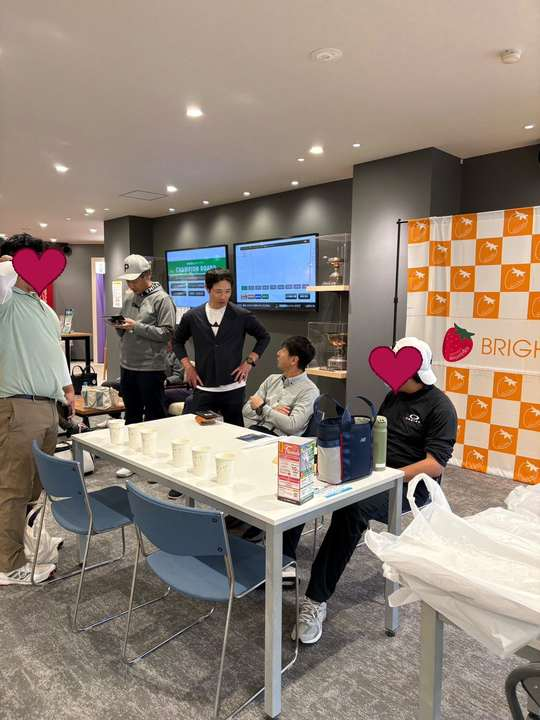
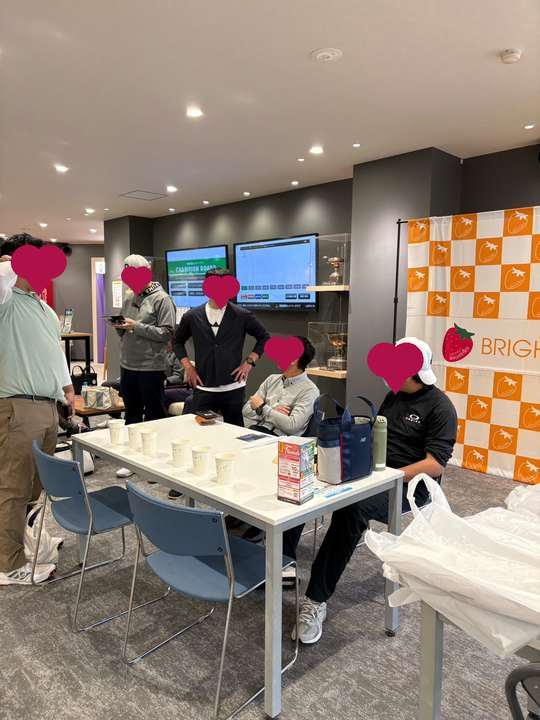
抜けていた顔にハートを付け直す
9枚目と16枚目の検出漏れを修正する。

diff --git a/index.html b/index.html
@@ -65,7 +65,7 @@
     background:
       radial-gradient(circle at 18% 22%, rgba(232,169,192,.18), transparent 42%),
       linear-gradient(180deg, rgba(90,31,57,.78), rgba(63,20,42,.90)),
-      url('images/hero.jpg?v=20261119d') center/cover no-repeat;
+      url('images/hero.jpg?v=20261119e') center/cover no-repeat;
     position:relative;overflow:hidden;padding:120px 0 80px;
   }
   .hero::before{content:"";position:absolute;inset:0;opacity:.05;pointer-events:none;background-image:repeating-linear-gradient(115deg,#fff 0 2px,transparent 2px 9px)}
@@ -467,26 +467,26 @@
     </div>
     <div class="scene-show rv" data-slideshow>
       <div class="scene-stage">
-        <figure class="scene-slide is-active"><img loading="eager" fetchpriority="high" decoding="async" src="images/slideshow/slide-01.jpg?v=20261119d" alt="クラブハウスでの集合"></figure>
-        <figure class="scene-slide"><img loading="lazy" decoding="async" src="images/slideshow/slide-02.jpg?v=20261119d" alt="ラウンジでの記念写真"></figure>
-        <figure class="scene-slide"><img loading="lazy" decoding="async" src="images/slideshow/slide-03.jpg?v=20261119d" alt="クラブハウスでの交流"></figure>
-        <figure class="scene-slide"><img loading="lazy" decoding="async" src="images/slideshow/slide-04.jpg?v=20261119d" alt="コースでの一コマ"></figure>
-        <figure class="scene-slide"><img loading="lazy" decoding="async" src="images/slideshow/slide-05.jpg?v=20261119d" alt="グリーンでの祝福"></figure>
-        <figure class="scene-slide"><img loading="lazy" decoding="async" src="images/slideshow/slide-06.jpg?v=20261119d" alt="プレー中の様子"></figure>
-        <figure class="scene-slide"><img loading="lazy" decoding="async" src="images/slideshow/slide-07.jpg?v=20261119d" alt="ティーショットの一コマ"></figure>
-        <figure class="scene-slide"><img loading="lazy" decoding="async" src="images/slideshow/slide-08.jpg?v=20261119d" alt="参加者の集合写真"></figure>
-        <figure class="scene-slide"><img loading="lazy" decoding="async" src="images/slideshow/slide-09.jpg?v=20261119d" alt="ラウンドの思い出"></figure>
-        <figure class="scene-slide"><img loading="lazy" decoding="async" src="images/slideshow/slide-10.jpg?v=20261119d" alt="コースサイドの風景"></figure>
-        <figure class="scene-slide"><img loading="lazy" decoding="async" src="images/slideshow/slide-11.jpg?v=20261119d" alt="クラブハウスでの一幕"></figure>
-        <figure class="scene-slide"><img loading="lazy" decoding="async" src="images/slideshow/slide-12.jpg?v=20261119d" alt="フェアウェイでのショット"></figure>
-        <figure class="scene-slide"><img loading="lazy" decoding="async" src="images/slideshow/slide-13.jpg?v=20261119d" alt="参加者同士の交流"></figure>
-        <figure class="scene-slide"><img loading="lazy" decoding="async" src="images/slideshow/slide-14.jpg?v=20261119d" alt="プレー後の様子"></figure>
-        <figure class="scene-slide"><img loading="lazy" decoding="async" src="images/slideshow/slide-15.jpg?v=20261119d" alt="記念の一枚"></figure>
-        <figure class="scene-slide"><img loading="lazy" decoding="async" src="images/slideshow/slide-16.jpg?v=20261119d" alt="ラウンド風景"></figure>
-        <figure class="scene-slide"><img loading="lazy" decoding="async" src="images/slideshow/slide-17.jpg?v=20261119d" alt="笑顔のスナップ"></figure>
-        <figure class="scene-slide"><img loading="lazy" decoding="async" src="images/slideshow/slide-18.jpg?v=20261119d" alt="コンペの一コマ"></figure>
-        <figure class="scene-slide"><img loading="lazy" decoding="async" src="images/slideshow/slide-19.jpg?v=20261119d" alt="集合の記念写真"></figure>
-        <figure class="scene-slide"><img loading="lazy" decoding="async" src="images/slideshow/slide-20.jpg?v=20261119d" alt="コースの景色"></figure>
+        <figure class="scene-slide is-active"><img loading="eager" fetchpriority="high" decoding="async" src="images/slideshow/slide-01.jpg?v=20261119e" alt="クラブハウスでの集合"></figure>
+        <figure class="scene-slide"><img loading="lazy" decoding="async" src="images/slideshow/slide-02.jpg?v=20261119e" alt="ラウンジでの記念写真"></figure>
+        <figure class="scene-slide"><img loading="lazy" decoding="async" src="images/slideshow/slide-03.jpg?v=20261119e" alt="クラブハウスでの交流"></figure>
+        <figure class="scene-slide"><img loading="lazy" decoding="async" src="images/slideshow/slide-04.jpg?v=20261119e" alt="コースでの一コマ"></figure>
+        <figure class="scene-slide"><img loading="lazy" decoding="async" src="images/slideshow/slide-05.jpg?v=20261119e" alt="グリーンでの祝福"></figure>
+        <figure class="scene-slide"><img loading="lazy" decoding="async" src="images/slideshow/slide-06.jpg?v=20261119e" alt="プレー中の様子"></figure>
+        <figure class="scene-slide"><img loading="lazy" decoding="async" src="images/slideshow/slide-07.jpg?v=20261119e" alt="ティーショットの一コマ"></figure>
+        <figure class="scene-slide"><img loading="lazy" decoding="async" src="images/slideshow/slide-08.jpg?v=20261119e" alt="参加者の集合写真"></figure>
+        <figure class="scene-slide"><img loading="lazy" decoding="async" src="images/slideshow/slide-09.jpg?v=20261119e" alt="ラウンドの思い出"></figure>
+        <figure class="scene-slide"><img loading="lazy" decoding="async" src="images/slideshow/slide-10.jpg?v=20261119e" alt="コースサイドの風景"></figure>
+        <figure class="scene-slide"><img loading="lazy" decoding="async" src="images/slideshow/slide-11.jpg?v=20261119e" alt="クラブハウスでの一幕"></figure>
+        <figure class="scene-slide"><img loading="lazy" decoding="async" src="images/slideshow/slide-12.jpg?v=20261119e" alt="フェアウェイでのショット"></figure>
+        <figure class="scene-slide"><img loading="lazy" decoding="async" src="images/slideshow/slide-13.jpg?v=20261119e" alt="参加者同士の交流"></figure>
+        <figure class="scene-slide"><img loading="lazy" decoding="async" src="images/slideshow/slide-14.jpg?v=20261119e" alt="プレー後の様子"></figure>
+        <figure class="scene-slide"><img loading="lazy" decoding="async" src="images/slideshow/slide-15.jpg?v=20261119e" alt="記念の一枚"></figure>
+        <figure class="scene-slide"><img loading="lazy" decoding="async" src="images/slideshow/slide-16.jpg?v=20261119e" alt="ラウンド風景"></figure>
+        <figure class="scene-slide"><img loading="lazy" decoding="async" src="images/slideshow/slide-17.jpg?v=20261119e" alt="笑顔のスナップ"></figure>
+        <figure class="scene-slide"><img loading="lazy" decoding="async" src="images/slideshow/slide-18.jpg?v=20261119e" alt="コンペの一コマ"></figure>
+        <figure class="scene-slide"><img loading="lazy" decoding="async" src="images/slideshow/slide-19.jpg?v=20261119e" alt="集合の記念写真"></figure>
+        <figure class="scene-slide"><img loading="lazy" decoding="async" src="images/slideshow/slide-20.jpg?v=20261119e" alt="コースの景色"></figure>
       </div>
       <div class="scene-side">
         <div class="scene-count" data-count>1 / 20</div>
@@ -496,12 +496,12 @@
       </div>
     </div>
     <div class="gal rv">
-      <div class="gal-item"><img loading="lazy" decoding="async" src="images/slideshow/slide-04.jpg?v=20261119d" alt="コースでの一コマ"></div>
-      <div class="gal-item"><img loading="lazy" decoding="async" src="images/slideshow/slide-05.jpg?v=20261119d" alt="グリーンでの祝福"></div>
-      <div class="gal-item"><img loading="lazy" decoding="async" src="images/slideshow/slide-02.jpg?v=20261119d" alt="ラウンジでの記念写真"></div>
-      <div class="gal-item"><img loading="lazy" decoding="async" src="images/slideshow/slide-01.jpg?v=20261119d" alt="クラブハウスでの集合"></div>
-      <div class="gal-item"><img loading="lazy" decoding="async" src="images/slideshow/slide-12.jpg?v=20261119d" alt="フェアウェイでのショット"></div>
-      <div class="gal-item"><img loading="lazy" decoding="async" src="images/slideshow/slide-20.jpg?v=20261119d" alt="コースの景色"></div>
+      <div class="gal-item"><img loading="lazy" decoding="async" src="images/slideshow/slide-04.jpg?v=20261119e" alt="コースでの一コマ"></div>
+      <div class="gal-item"><img loading="lazy" decoding="async" src="images/slideshow/slide-05.jpg?v=20261119e" alt="グリーンでの祝福"></div>
+      <div class="gal-item"><img loading="lazy" decoding="async" src="images/slideshow/slide-02.jpg?v=20261119e" alt="ラウンジでの記念写真"></div>
+      <div class="gal-item"><img loading="lazy" decoding="async" src="images/slideshow/slide-01.jpg?v=20261119e" alt="クラブハウスでの集合"></div>
+      <div class="gal-item"><img loading="lazy" decoding="async" src="images/slideshow/slide-12.jpg?v=20261119e" alt="フェアウェイでのショット"></div>
+      <div class="gal-item"><img loading="lazy" decoding="async" src="images/slideshow/slide-20.jpg?v=20261119e" alt="コースの景色"></div>
     </div>
   </div>
 </section>
@@ -515,7 +515,7 @@
     </div>
     <div class="venue-grid rv">
       <div class="venue-photo">
-        <img src="images/venue.jpg?v=20261119d" alt="関東国際カントリークラブのコースとクラブハウス"
+        <img src="images/venue.jpg?v=20261119e" alt="関東国際カントリークラブのコースとクラブハウス"
              style="width:100%;height:100%;object-fit:cover;">
       </div>
       <div class="venue-info">
